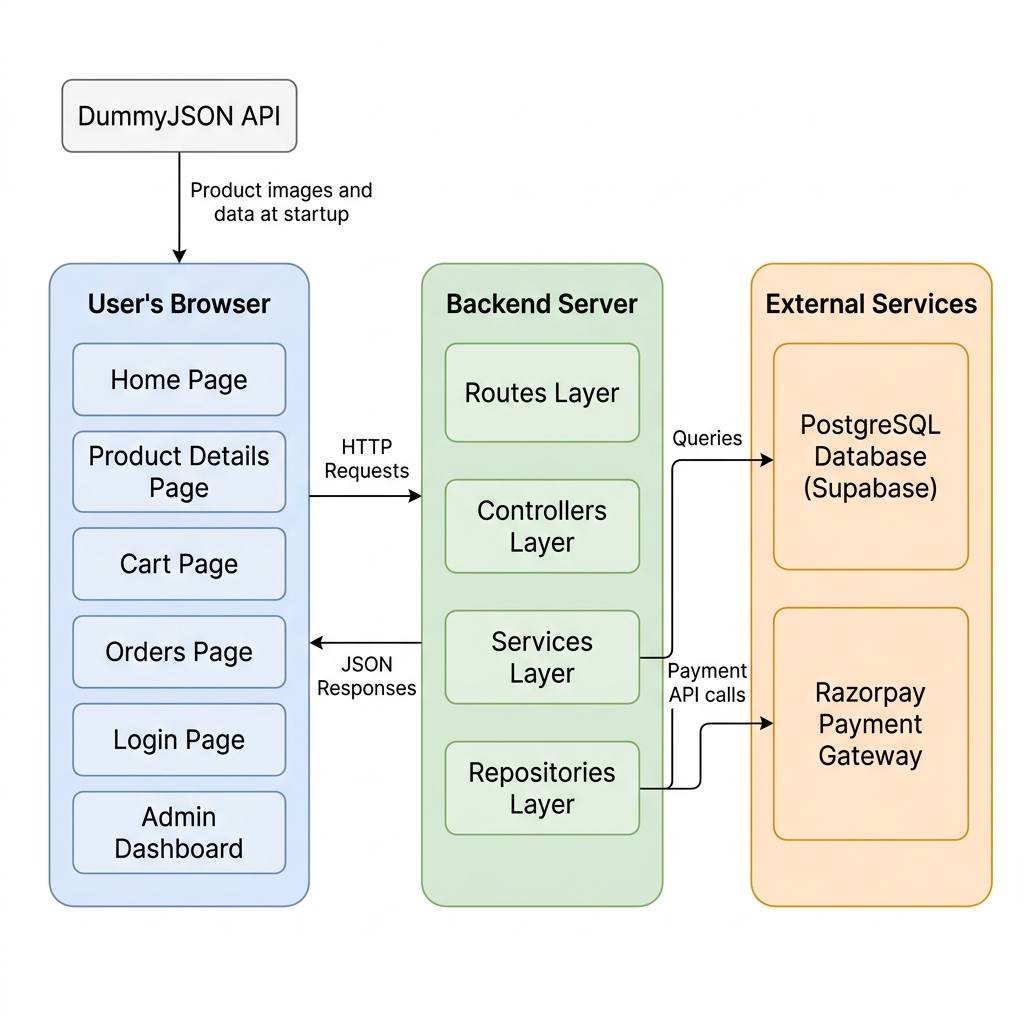
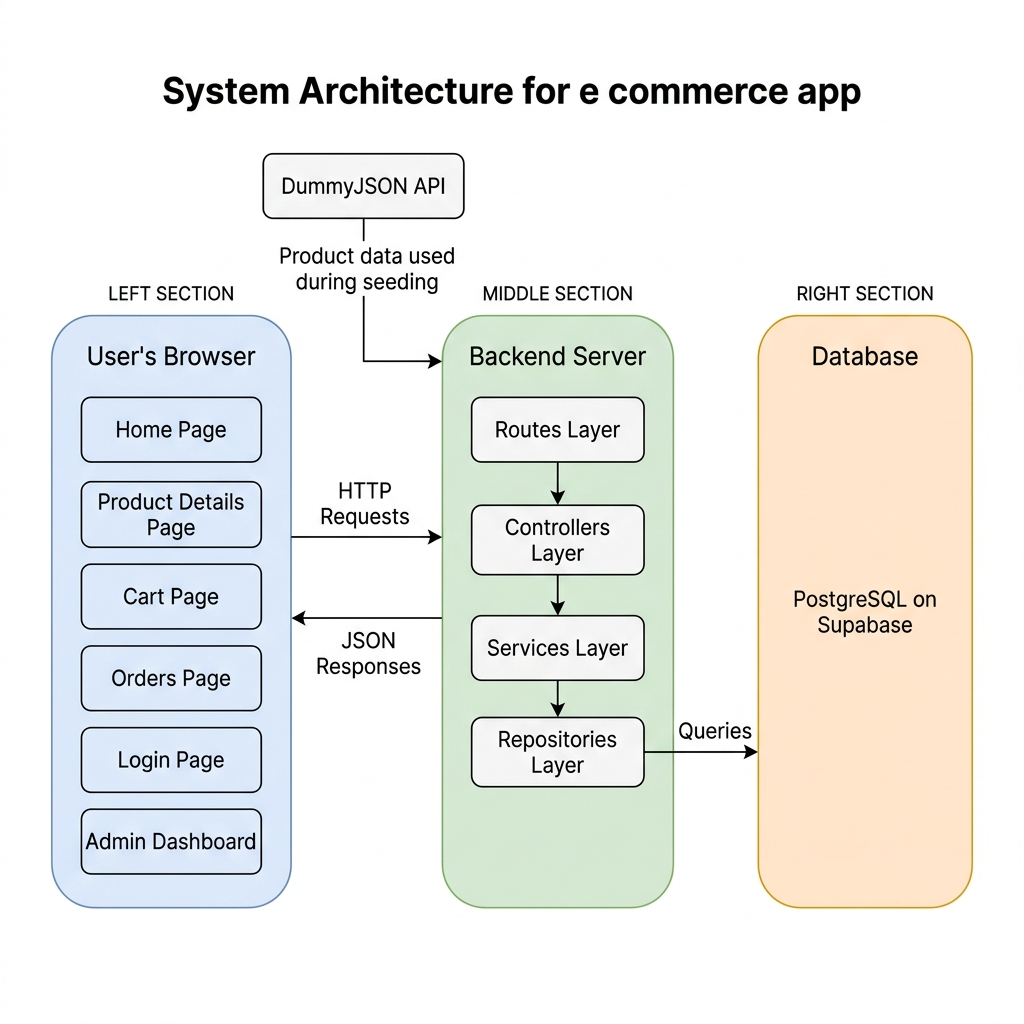
docs: regenerate all diagrams with razorpay removed

Changed region(s): [[0.0312, 0.0625, 0.9688, 0.9062]]

diff --git a/idea.md b/idea.md
@@ -2,7 +2,7 @@
 
 ## What is Dukaan?
 
-Dukaan is an online shopping platform where people can browse products across different categories, add them to a cart, and complete purchases using Razorpay. Think of it as a simplified Amazon or Flipkart built as a learning project.
+Dukaan is an online shopping platform where people can browse products across different categories, add them to a cart, and place orders directly. Think of it as a simplified Amazon or Flipkart built as a learning project.
 
 ## System Architecture
 
@@ -10,7 +10,7 @@ Dukaan is an online shopping platform where people can browse products across di
 
 ## Problem Being Solved
 
-Most e-commerce demos are either too simple with no real functionality or too complex to understand. Dukaan sits in the middle — fully working from login to payment, with clean and readable code.
+Most e-commerce demos are either too simple with no real functionality or too complex to understand. Dukaan sits in the middle — fully working from login to order placement, with clean and readable code.
 
 ## Who Uses It
 
@@ -26,7 +26,7 @@ Most e-commerce demos are either too simple with no real functionality or too co
 - Search by product name
 - View product detail page with a real image gallery
 - Add to cart, update quantities, remove items
-- Pay via Razorpay
+- Place an order directly with one click
 - View full order history
 
 **For Admins**
@@ -43,5 +43,9 @@ Most e-commerce demos are either too simple with no real functionality or too co
 | Database | PostgreSQL on Supabase |
 | ORM | Prisma |
 | Auth | JSON Web Tokens |
-| Payments | Razorpay |
+| Deployment | Render |
 | Product Data | DummyJSON API for seeding |
+
+## How Ordering Works
+
+When a user clicks Place Order, the backend fetches their cart items, creates an order with status confirmed, clears the cart, and returns the confirmation. Everything happens in one step with no external payment service needed.

diff --git a/sequenceDiagram.md b/sequenceDiagram.md
@@ -1,6 +1,6 @@
 # Sequence Diagram — Dukaan
 
-This diagram shows the step-by-step flow when a user places an order and completes payment through Razorpay.
+This diagram shows the step-by-step flow when a user places an order.
 
 ![Sequence Diagram - Place an Order](docs/sequence_diagram.png)
 
@@ -14,3 +14,6 @@ User clicks Add to Cart → Backend checks login → Finds or creates cart → A
 
 **Browsing Products**
 User opens home page → Frontend fetches products with optional search or category filter → Backend queries database → Products displayed in grid
+
+**Admin Adding a Product**
+Admin fills product form → Frontend sends to backend → Backend verifies admin role → Saves product to database → Product appears in store

diff --git a/classDiagram.md b/classDiagram.md
@@ -11,3 +11,7 @@ This diagram shows how the backend is organized into three layers: Repositories,
 | Repository | Directly talks to the database via Prisma |
 | Service | Contains business logic and rules |
 | Controller | Handles incoming HTTP requests and sends responses |
+
+## Order Service
+
+Order Service has three methods: placeOrder, getUserOrders, getAllOrders. When placeOrder is called it fetches the cart, creates an order with status confirmed, clears the cart, and returns the order. No external payment service is involved.

diff --git a/useCaseDiagram.md b/useCaseDiagram.md
@@ -15,3 +15,7 @@ This diagram shows what each type of user can do in the application.
 | Place an order | No | Yes | No |
 | View own orders | No | Yes | Yes (all) |
 | Add, edit, delete products | No | No | Yes |
+
+## How Ordering Works
+
+User clicks Place Order on the cart page. The backend creates the order as confirmed and clears the cart automatically. User is redirected to the Orders page to see the confirmation.
